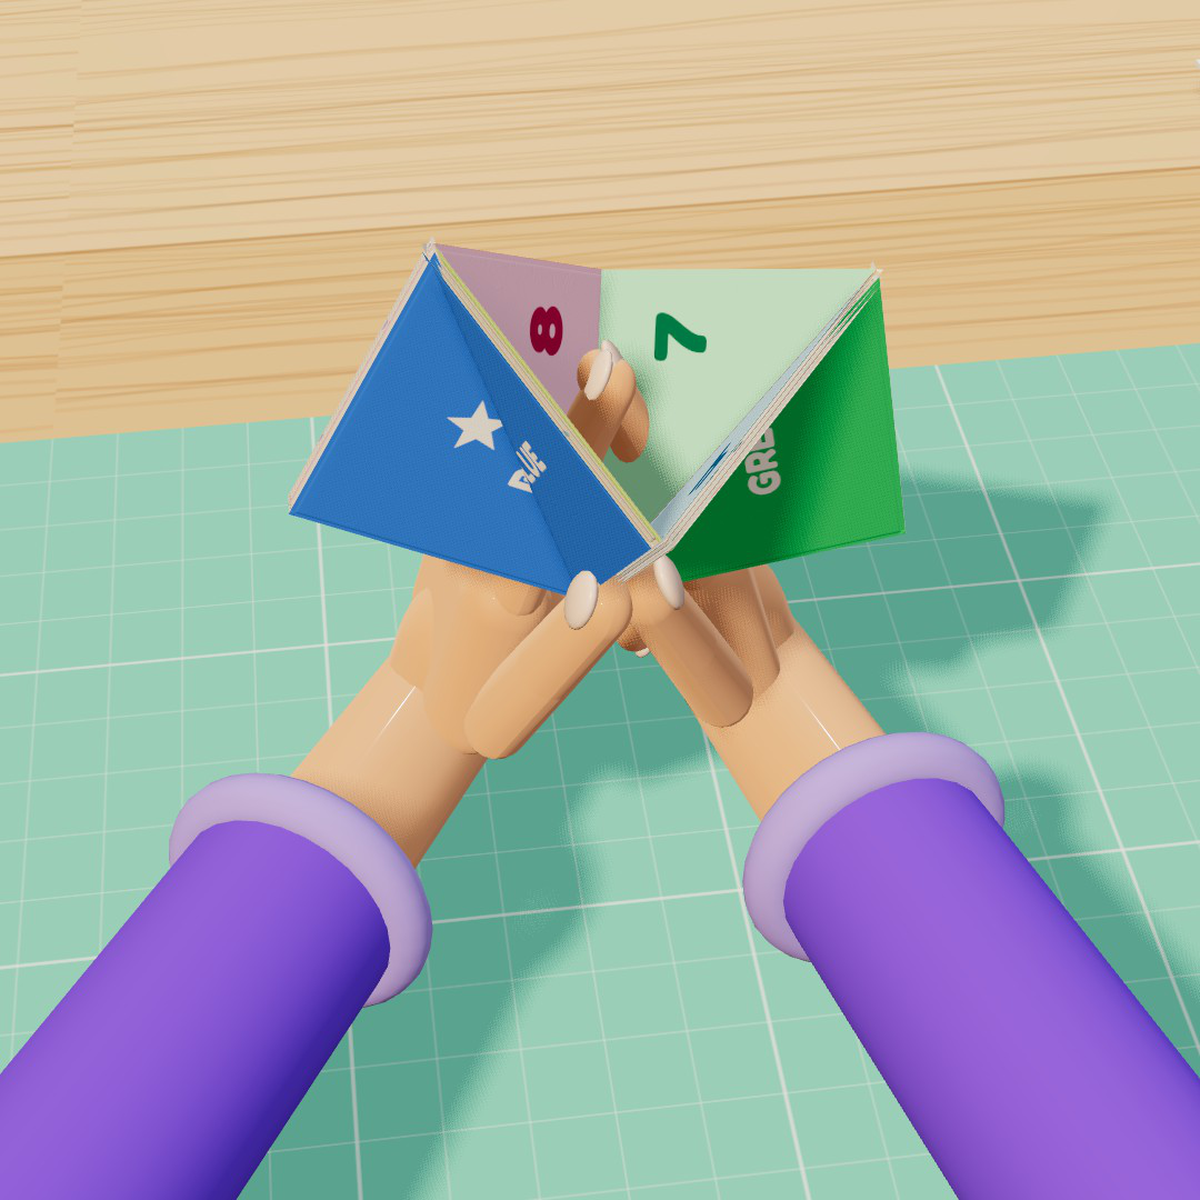
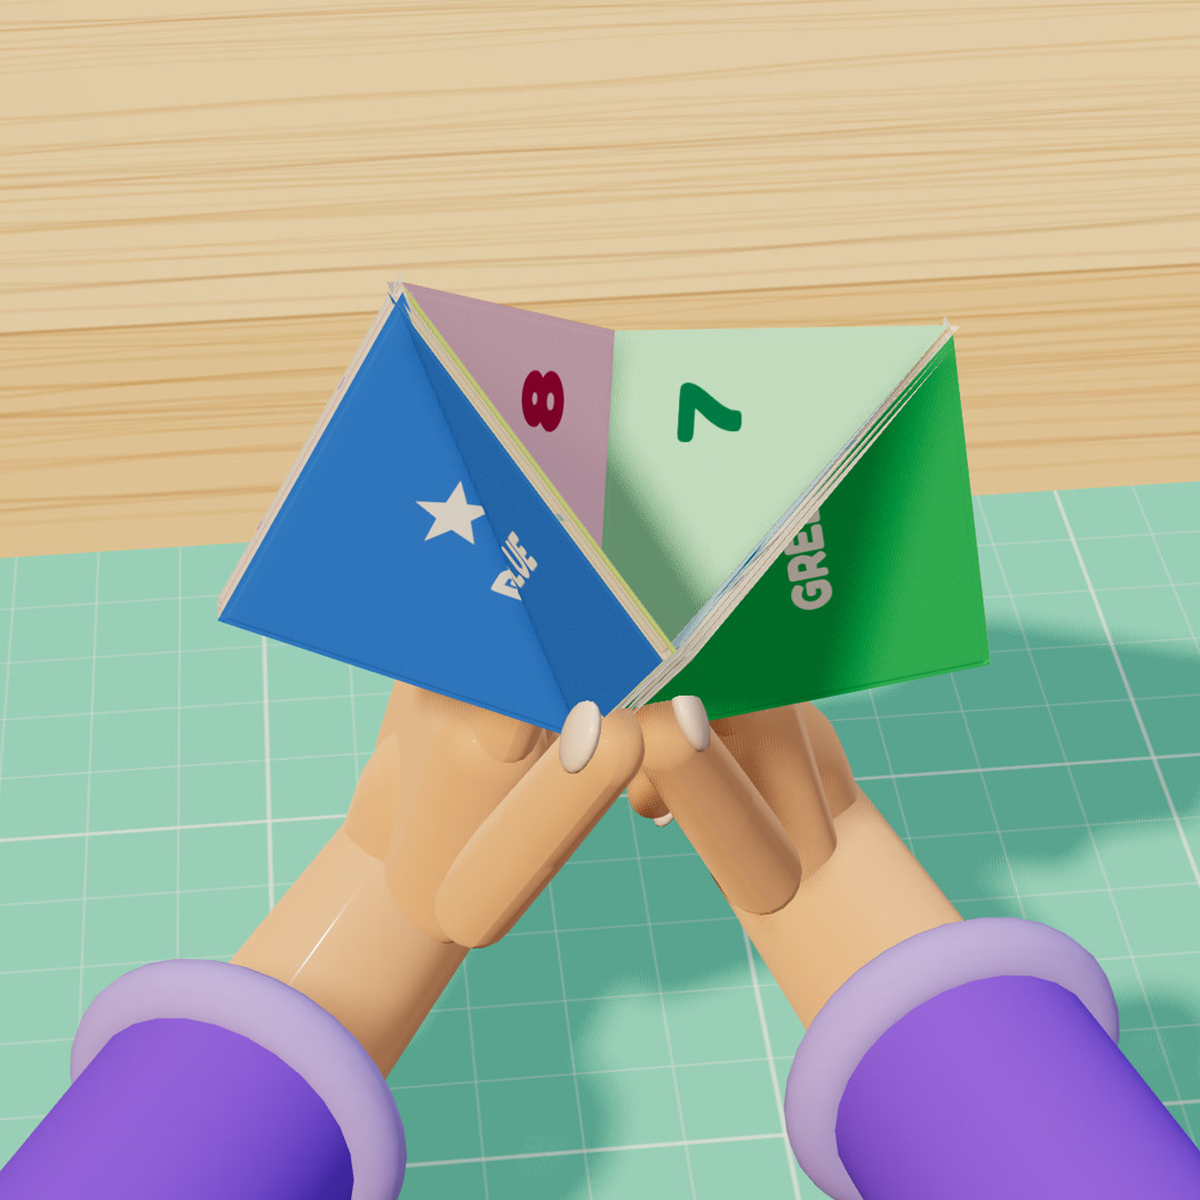
Origami #6 Fortune Teller: link the v3 video (SW7aLbukgsg)

diff --git a/projects/06-fortune-teller/index.html b/projects/06-fortune-teller/index.html
@@ -30,7 +30,7 @@ a{color:#5b21b6}
 <main>
 <a class="hero" href="final.png"><img src="final.png" alt="Finished Fortune Teller"></a>
 <p class="meta">A fortune teller from one square, printed with colours, numbers and fun things to do. Pick, count, lift — and do it!</p>
-<p class="yt">Video: <a href="https://www.youtube.com/watch?v=scqG6fiqKUc" rel="noopener">watch on YouTube</a> (Origami for Kids · @Kids.JoinDev)</p>
+<p class="yt">Video: <a href="https://www.youtube.com/watch?v=SW7aLbukgsg" rel="noopener">watch on YouTube</a> (Origami for Kids · @Kids.JoinDev)</p>
 <div class="print"><b>Print tip:</b> open a PDF → print at <b>100% / Actual size</b> → do <b>not</b> “fit to page” →
 measure the black <b>100 mm</b> bar with a ruler. Fold sheet = print <b>both sides</b>, flip on the long edge, then cut out the square.</div>
 <div class="box">

diff --git a/projects/06-fortune-teller/README.md b/projects/06-fortune-teller/README.md
@@ -2,7 +2,7 @@
 
 Fold a fortune teller, pick a colour, count, lift a flap — and do what it says! Ages 7+, about 15 minutes, one 150 mm square.
 
-▶ Video: https://www.youtube.com/watch?v=scqG6fiqKUc&list=PLG27WuKuRInU
+▶ Video: https://www.youtube.com/watch?v=SW7aLbukgsg&list=PLG27WuKuRInU
 
 Coding idea: **loops inside loops**. Spell the colour (one open per letter), count to the number, then lift the flap: the result.
 
